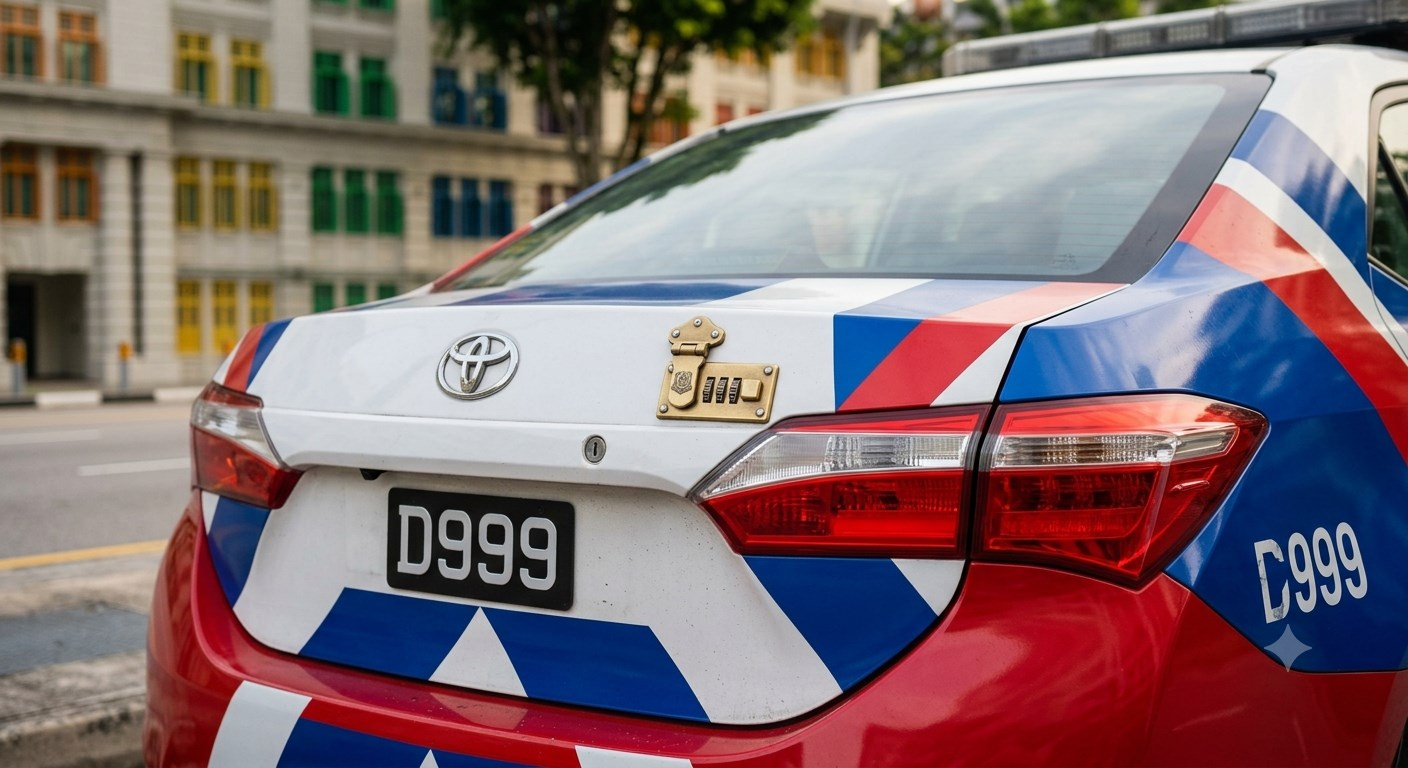
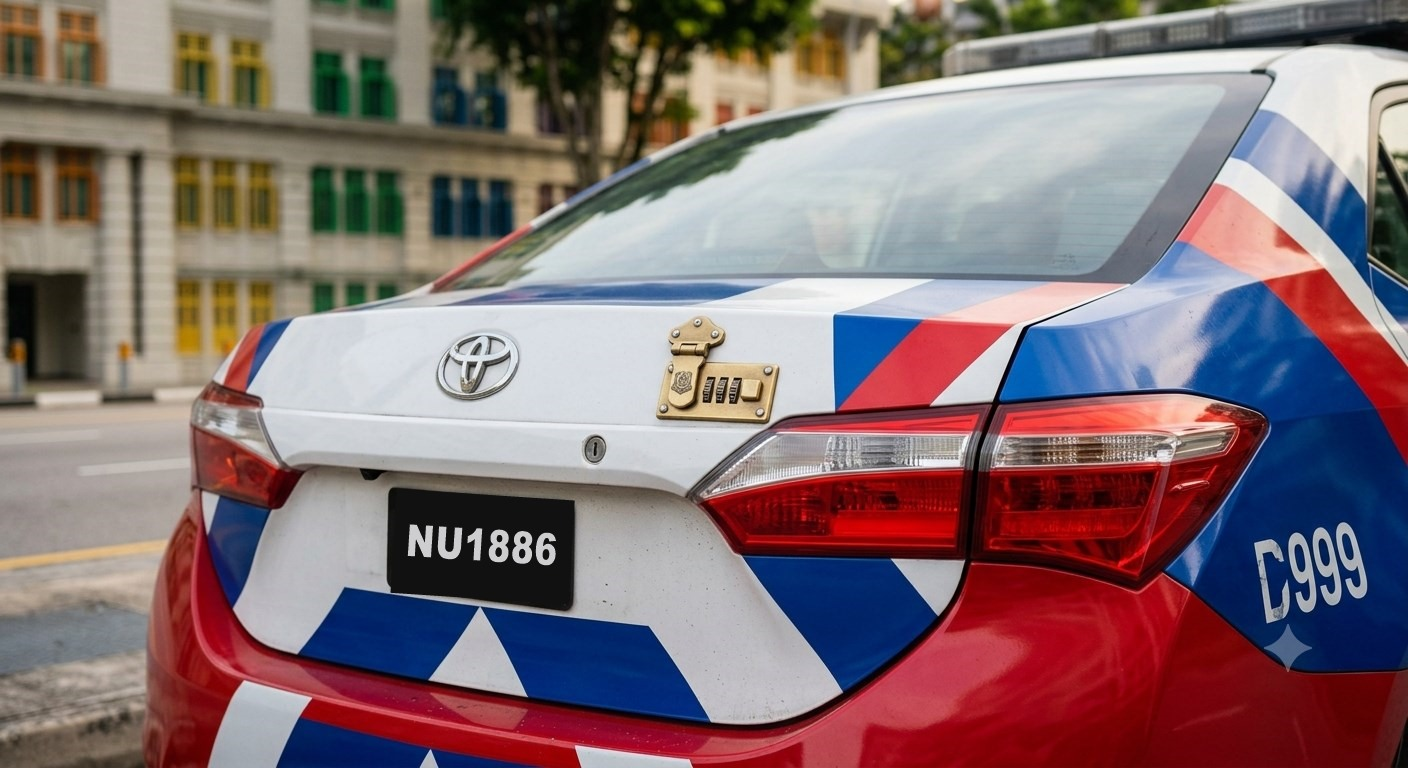
방탈출: 경찰차 번호판 NU1886으로 편집, 트렁크 자물쇠 정답 149

Changed region(s): [[0.2812, 0.6562, 0.4062, 0.7812]]

diff --git a/index.html b/index.html
@@ -482,7 +482,7 @@ const MAPS = {
           {x:21,y:72,w:26,h:34,label:"트렁크", closeup:{
             img:"img/closeup/police_trunk.jpg", badge:"🔢",
             caption:"🔐 트렁크에 3자리 다이얼 자물쇠가 달려 있다.",
-            action:{type:"numlock", len:3, answer:"000",
+            action:{type:"numlock", len:3, answer:"149",
               success:"철컥 — 트렁크가 열렸다!",
               setFlag:"p_trunk"} }},
         ] }},
